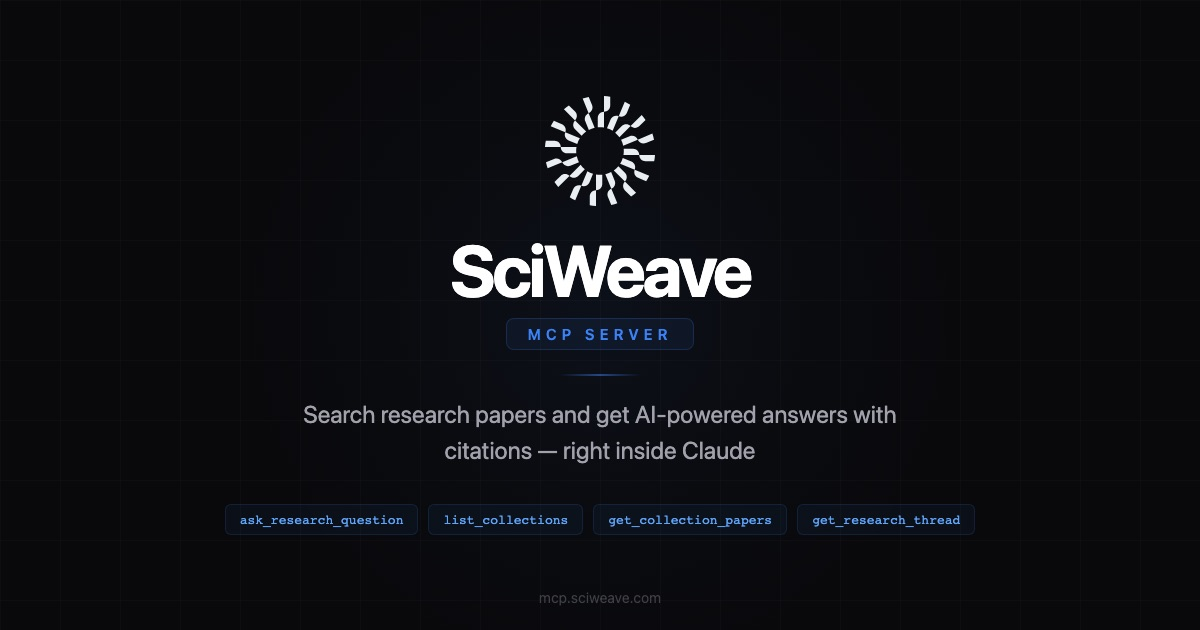
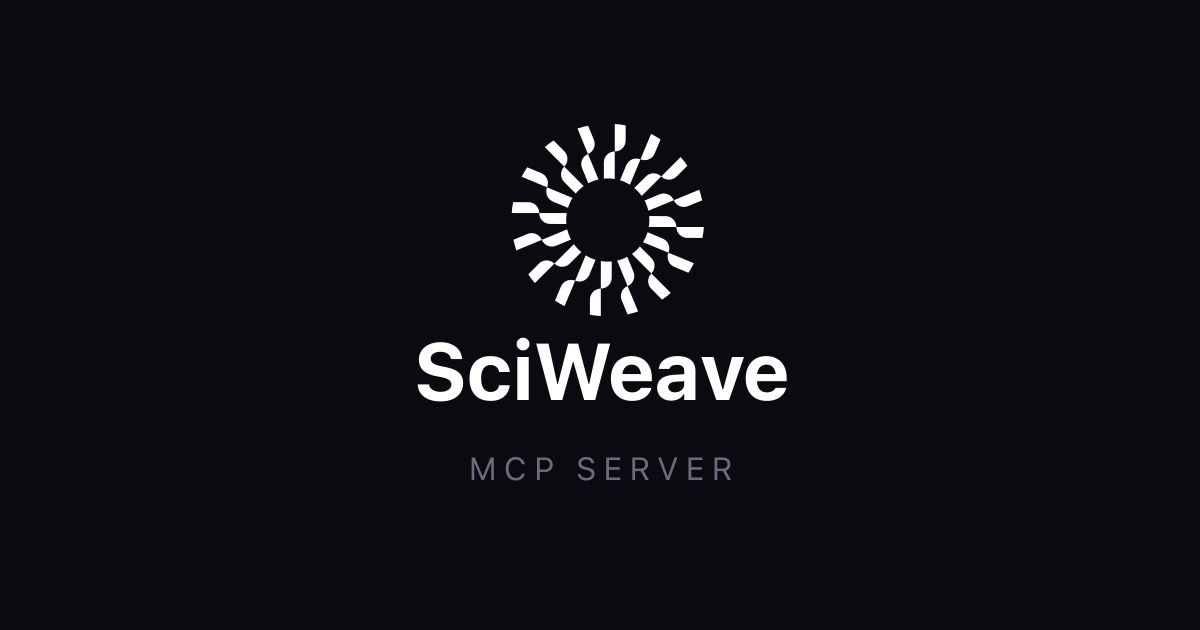
feat: simplified OG image + API key CTA on landing page
- Replace busy OG image with clean logo + "MCP SERVER" text
- Add prominent "Get Your API Key" CTA button linking to login with redirect to settings/api-access tab
- Update setup step 1 to link through login flow

diff --git a/api/index.ts b/api/index.ts
@@ -143,6 +143,25 @@ export default function handler(req: VercelRequest, res: VercelResponse) {
       border-radius: 4px;
       color: #e5e5e5;
     }
+    .cta {
+      display: inline-flex;
+      align-items: center;
+      gap: 8px;
+      font-size: 15px;
+      font-weight: 600;
+      color: #fff;
+      background: #3b82f6;
+      border: none;
+      border-radius: 10px;
+      padding: 14px 28px;
+      cursor: pointer;
+      text-decoration: none;
+      margin-bottom: 24px;
+      transition: background 0.15s;
+    }
+    .cta:hover { background: #2563eb; }
+    .cta svg { flex-shrink: 0; }
+    .divider { font-size: 12px; color: #525252; margin-bottom: 20px; }
     .footer { font-size: 12px; color: #525252; }
     .footer a { color: #3b82f6; text-decoration: none; }
     .footer a:hover { text-decoration: underline; }
@@ -160,9 +179,14 @@ export default function handler(req: VercelRequest, res: VercelResponse) {
       <span class="tool">get_collection_papers</span>
       <span class="tool">get_research_thread</span>
     </div>
+    <a class="cta" href="https://sciweave.com/login?redirect=/settings?tab=api-access">
+      <svg xmlns="http://www.w3.org/2000/svg" width="18" height="18" viewBox="0 0 24 24" fill="none" stroke="currentColor" stroke-width="2" stroke-linecap="round" stroke-linejoin="round"><path d="M15 3h4a2 2 0 0 1 2 2v14a2 2 0 0 1-2 2h-4"/><polyline points="10 17 15 12 10 7"/><line x1="15" y1="12" x2="3" y2="12"/></svg>
+      Get Your API Key
+    </a>
+    <p class="divider">Already have a key? Follow the steps below.</p>
     <div class="setup">
       <h2>Quick Setup</h2>
-      <div class="step"><span class="step-num">1.</span> Generate an API key at <a href="https://sciweave.com/settings?tab=api-access" style="color:#3b82f6;text-decoration:none">sciweave.com/settings</a></div>
+      <div class="step"><span class="step-num">1.</span> <a href="https://sciweave.com/login?redirect=/settings?tab=api-access" style="color:#3b82f6;text-decoration:none">Log in</a> and copy your API key</div>
       <div class="step"><span class="step-num">2.</span> In Claude.ai → Settings → Connectors</div>
       <div class="step"><span class="step-num">3.</span> Add URL: <code>${BASE_URL}/mcp</code></div>
       <div class="step"><span class="step-num">4.</span> Paste your API key as the token</div>
